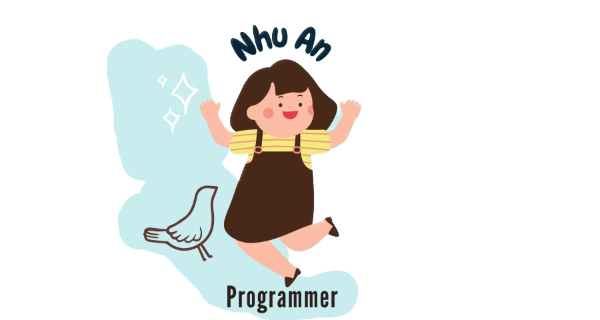
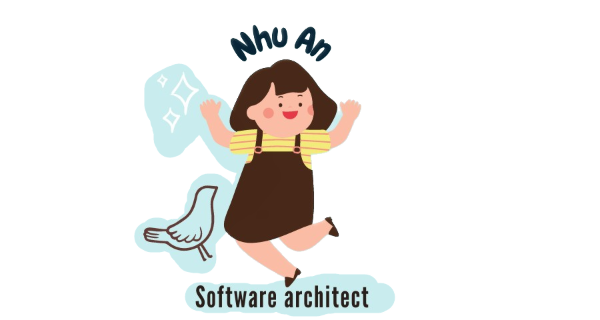
final

diff --git a/other.html b/other.html
@@ -68,6 +68,7 @@
   </section>
 
   <section id="second-section">
+
     <h1 class="title">Quotes to think </h1>
      <p class="little">
       Quotes are melodies in litterature, a way of talking of long matters in a short amount of time<br>
@@ -96,6 +97,7 @@
       <img src="flower.gif" class="quote-img">
     </p>
     <img src="line.gif" class="sep-line">
+
     <h1 class="title">A few cute short stories</h1>
    <p class="little">
      <br>Family is where memories are held, where love and tolerance are preserved.
@@ -105,7 +107,7 @@
      Đọc mấy mẩu truyện ngắn dưới đây, có lẽ bạn sẽ biết trân quý tổ ấm của mình hơn.
    </p>
    <img src="line.gif" class="sep-line">
-   <h4 class="title">Adopted child / Con nui</h4>
+   <h4 class="title">Adopted child / Con nuôi</h4>
    <img src="30.gif" class="ssr-img">
    <p>
      A teacher shows the whole class the picture of a family. There is a boy in the
@@ -143,7 +145,8 @@
      với con cái thì luôn thường trực…
    </p>
    <img src="line.gif" class="sep-line">
-   <h4 class="title">The jade bracelet / Vòng cãm thạch</h4>
+
+   <h4 class="title">The jade bracelet / Vòng cẩm thạch</h4>
    <img src="b.gif" class="ssr-img">
    <p>
      Dad had always wanted to give Mom a nice jade bracelet. Mom’s hand was white
@@ -174,6 +177,7 @@
    </p>
    <img src="line.gif" class="sep-line">
    <img src="book.gif" class="head-img">
+
    <h1 class="title">A book for an adventure</h1>
     <p class="little">
      Families are complex. They can be all the things: giving, loving, spiteful,
@@ -200,9 +204,25 @@
          Another list of books for those passionate readers
        </a>
      </li>
-   </ul>
+   </ul> <img src="line.gif" class="sep-line">
+
+   <h1 class="title">Films for non-book-lovers</h1>
+     <p class="little">
+     We all know that for some people, books are sleeping pills, but we want everyone
+     to be able to enjoy a few adventures, so here we are, with a few movies, picked out for you. <br>
+    </p>
+    <ul>
+      <li>Miracle in cell no.7</li>
+      <li>Coco</li>
+      <img src="f.gif" class="song-r">
+      <li>Inside out</li>
+      <li>If anything happens i love you</li>
+      <li>Song of the sea</li>
+    </ul>
    <img src="line.gif" class="sep-line">
+
    <h1 class="title">And lastly, a song for a comfy zone</h1>
+   <img src="57.gif" class="song-l">
     <p class="little">
      Music is a way of communicating without any language barriers.
      Even if we don't allways understand the lyrics of a song, we will allways
@@ -223,6 +243,7 @@
        rồi đúng không?</a>
        is a song from the movie "Bố Già" who shows us that our parents don't have that much time left here.
      </li>
+     <img src="56.gif" class="song-r">
      <li>
        The next song <a href="https://www.youtube.com/watch?v=1Y0jeAPH_Pc">Xem là rơi nước mắt</a>
        is a song who talks about a father in his toddler's eyes.
@@ -240,6 +261,47 @@
        <a href="https://www.youtube.com/watch?v=e0MosAX9E6A">Chuyện nhà bé thôi, không đi về</a>,
        <a href="https://www.youtube.com/watch?v=xG94wlZai1I">Nứt</a> and
        <a href="https://www.youtube.com/watch?v=7wtfhZwyrcc">Believer</a>
+     </li>
+   </ul>
+
+   <h1 class="title">Finally, some handmade crafts for old and young</h1>
+   <img src="h3.gif" class="song-l">
+     <p class="little">
+       Remember when you where small and loved crafts? Relive it now or offer to your
+       community. You're never too old, or too young to make crafts <br>
+    </p>
+   <ul>
+     <li class="title">
+       Some Easy Peasy Origamis:
+     </li>
+     <li>
+       <a href="https://www.youtube.com/watch?v=Jj0F-vdN18w&list=PLJDBtQD1ZbJDES0TCP54v85Mh60fX4dwn&index=11&t=304s">
+         A rose
+       </a>
+     </li>
+     <img src="h1.gif" class="song-r" id="chick">
+     <li>
+        <a href="https://www.youtube.com/watch?v=Z-BIL6p1Te8&list=PLJDBtQD1ZbJDES0TCP54v85Mh60fX4dwn&index=10">
+          A heart
+        </a>
+     </li>
+     <li>
+        <a href="https://www.youtube.com/watch?v=cZdO2e8K29o">
+          A Butterfly
+        </a>
+     </li>
+     <li class="title">
+       A few crafts:
+     </li>
+     <li>
+        <a href="https://www.youtube.com/watch?v=_IiRqqSsprg">
+          School crafts
+        </a>
+     </li>
+     <li>
+        <a href="https://www.youtube.com/watch?v=nyc7JMSfCzQ">
+          Soap crafts
+        </a>
      </li>
    </ul>
    <a href="about-us.html" class="myButton">next→</a>

diff --git a/about-us.html b/about-us.html
@@ -53,10 +53,46 @@
     <!-- Title -->
     <div class="row">
       <div class="col-lg-6">
-        <h1 class="big-heading title">About us (SOB)</h1>
-        <img src="" alt="">
+        <h1 class="big-heading title">More about who we are (SOB)</h1>
+        <p class="title-footer">Want to know who we are?</p>
+      </div>
+      <div class="col-lg-6">
+        <img src="16.png" class="title-sun">
+        <img src="dove.gif" class="title-dove">
+        <img src="7.png" class="title-fada">
+        <img src="5.png" class="title-walkers">
+        <img class="title-road" src="14.png">
+        <img class="title-house" src="view.gif">
+      </div>
+    </div>
   </section>
+
   <section id="second-section">
+    <h1 class="title">Our Team</h1>
+    <p>
+      We are a team of three year 8 girls, studying at Đức Trí school, brought
+      together by friendship and passion. Our first team member is Clara Như An
+      Cossin (Như An). She is our Software Architect, in charge of all the IT
+      departement, supervising the english translations, and finishing up our
+      Content Designer's beautiful designs. Our Content Designer is Phan Nguyễn
+      Khả Hân (Khả Hân). She is in charge of all our content ideas, design
+      and styling our user interface. Finally, Nguyên Dang (Nguyên), our Content
+      Executive, is in charge of all the research, organisation, translations we
+      need to be able to make this project work. Without each and every team
+      member, SOB would'nt be launched. Thank you, to everyone who
+      contributed to make this project come true.
+    </p>
+    <div class="row">
+      <div class="col-md-4">
+        <img src="22.png" class="an">
+      </div>
+      <div class="col-md-4">
+        <img src="23.png" class="han">
+      </div>
+      <div class="col-md-4">
+        <img src="24.png" class="nguyen">
+      </div>
+    </div>
    <a href="storyline.html" class="myButton">next→</a>
   </section>
 

diff --git a/styles.css b/styles.css
@@ -55,6 +55,11 @@ p{
   padding-top: 20%;
 }
 
+.au-title-img{
+  position: relative;
+  left: 150px;
+}
+
 .title-dove{
   width: 20%;
   position: absolute;
@@ -116,7 +121,7 @@ left: 5%;
 /****************SECOND SECTION***************/
 
 #second-section{
-  background-color: #e4fbff;
+  background-color: #c9ecee;
   padding: 10%;
 }
 
@@ -142,6 +147,8 @@ left: 5%;
 	padding:5px 17px;
 	text-decoration:none;
 	text-shadow:0 1px 0 #cc9f52;
+  position: relative;
+  top: 50px;
 }
 .myButton:hover {
 	background-color:#d19a58;
@@ -173,16 +180,46 @@ left: 5%;
   left: 30%;
 }
 
+.song-r{
+  width: 130px;
+  float: right;
+}
+
+.song-l{
+  width: 60px;
+  float: left;
+}
+
+#chick{
+  width: 250px;
+}
+
 .head-img{
   width: 20%;
   position: relative;
   left: 30%;
 }
 
+.an{
+  position: relative;
+  right: 170px;
+  top: 30px;
+}
+
+.han{
+  position: relative;
+  bottom: 2px;
+  right: 15px;
+}
+
+.nguyen{
+  position: relative;
+  top: 22px;
+}
 /********************FOOTER**************/
 #footer{
   color: #424642;
-  background-color: #e4fbff;
+  background-color: #c9ecee;
 }
 
 .copyright{
